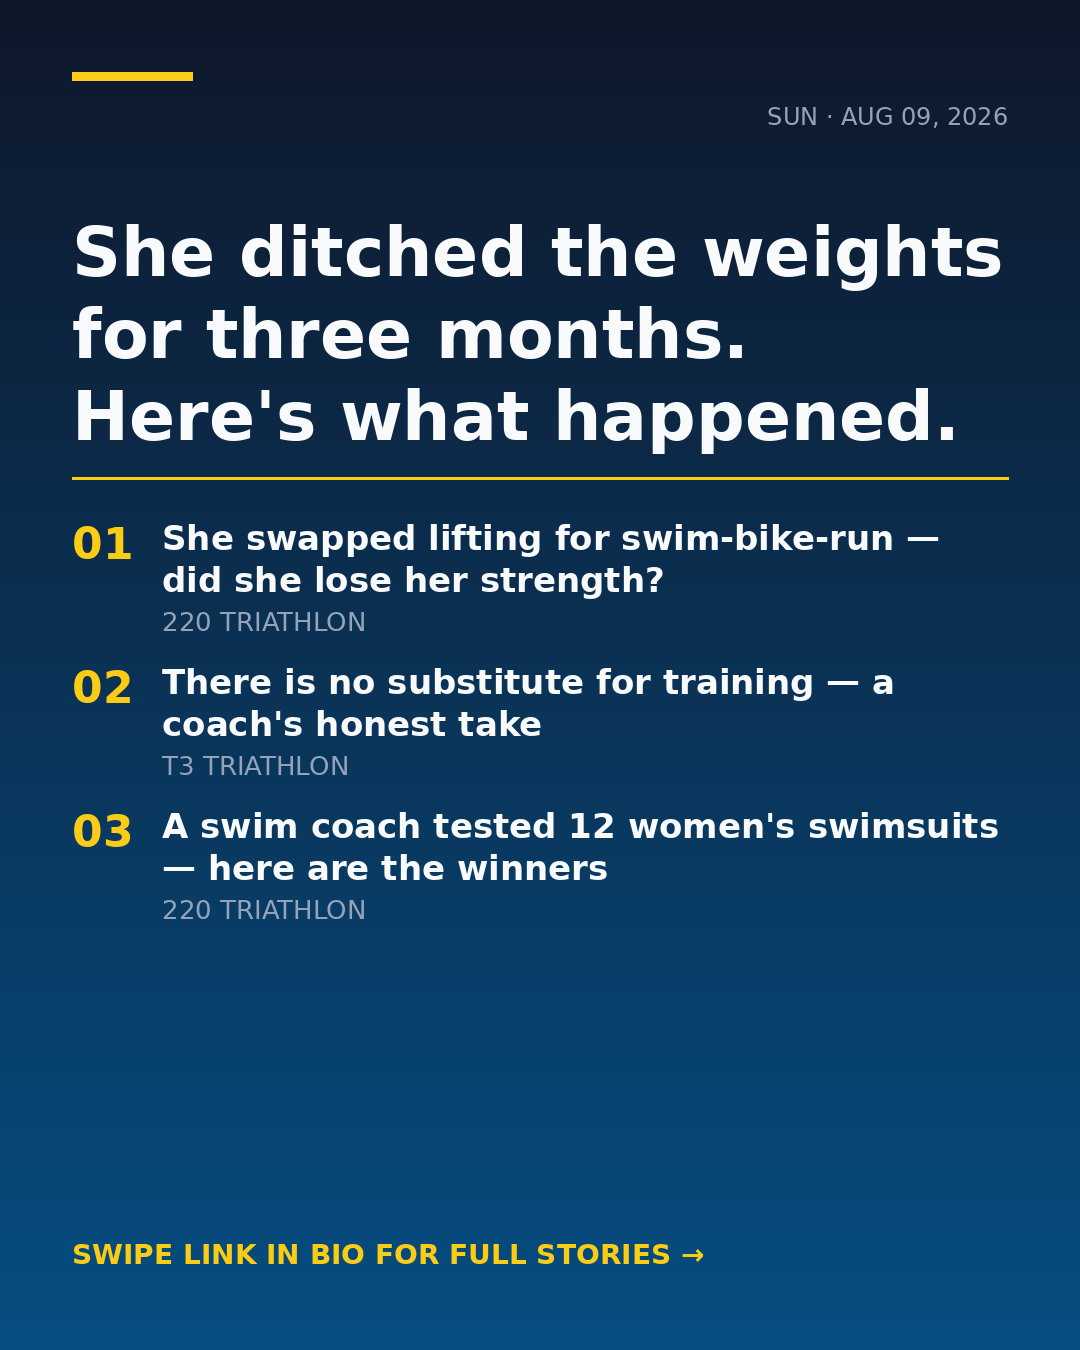
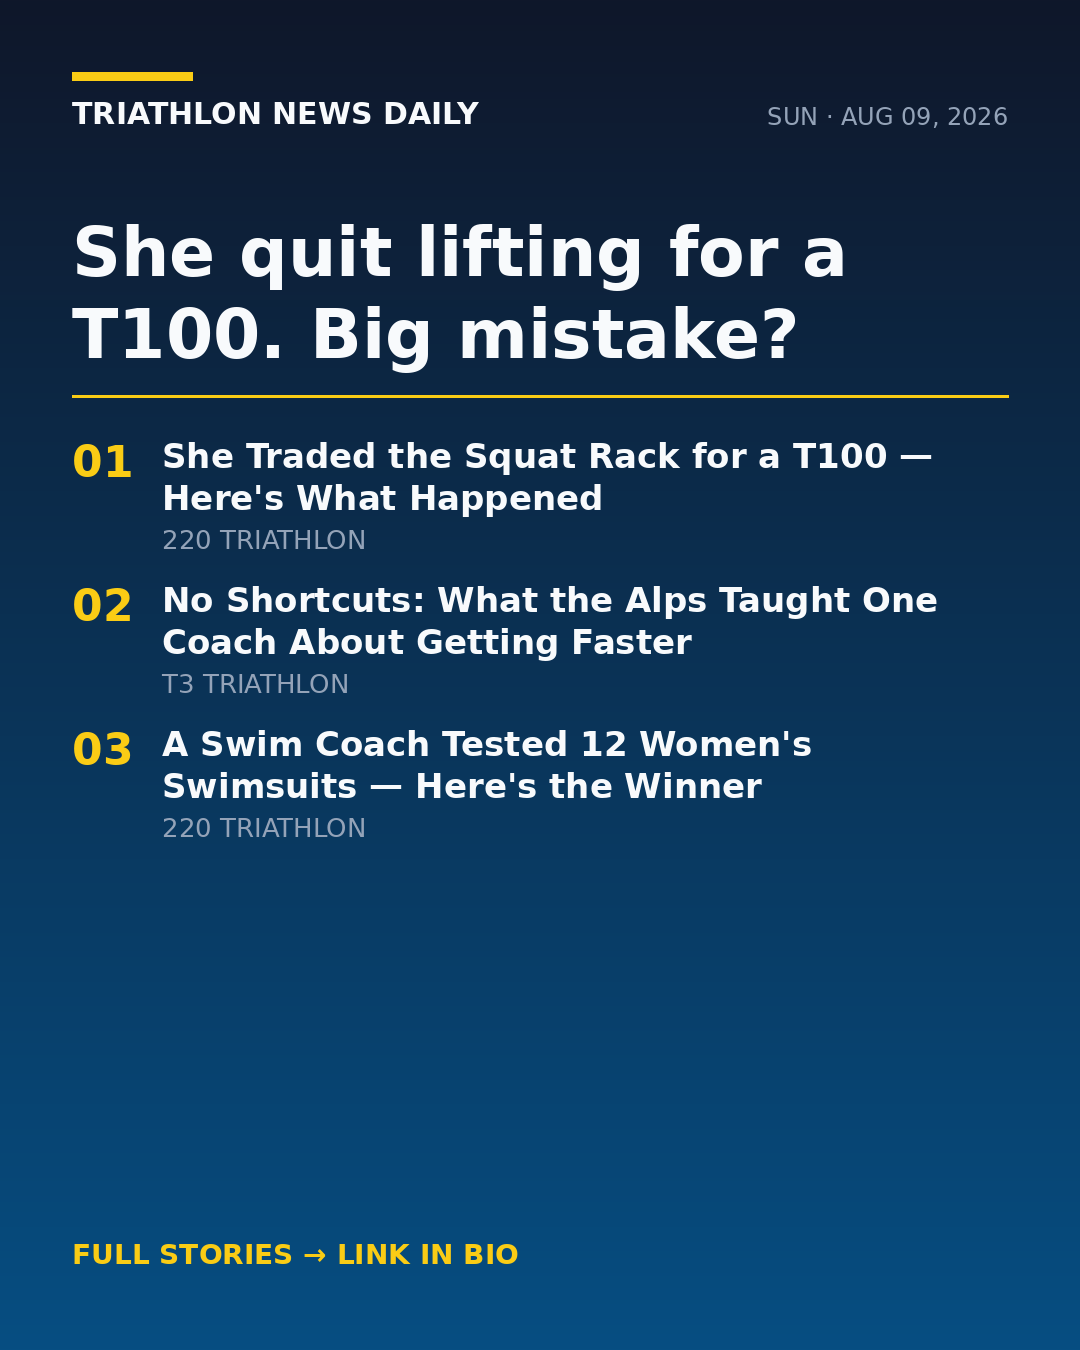
card: 2026-08-09

diff --git a/index.html b/index.html
@@ -3,7 +3,7 @@
 <head>
 <meta charset="utf-8">
 <meta name="viewport" content="width=device-width, initial-scale=1">
-<title> — Sunday, 09 August 2026</title>
+<title>Triathlon News Daily — Sunday, 09 August 2026</title>
 <style>
   :root { color-scheme: light dark; }
   body {
@@ -27,35 +27,57 @@
   }
   .ok { opacity: 0; transition: opacity .2s; font-size: .875rem; align-self: center; }
   .ok.show { opacity: .8; }
+  h2 { font-size: 1rem; text-transform: uppercase; letter-spacing: .06em;
+        opacity: .6; margin: 32px 0 12px; }
+  ol.stories { padding-left: 0; list-style: none; margin: 0; }
+  ol.stories li { padding: 14px 0; border-bottom: 1px solid rgba(128,128,128,.25); }
+  ol.stories a { color: inherit; font-weight: 600; text-decoration: none; }
+  ol.stories a:hover { text-decoration: underline; }
+  .src { display: block; font-size: .8rem; opacity: .55; margin-top: 4px;
+          text-transform: uppercase; letter-spacing: .04em; }
+  details { margin-top: 32px; }
+  summary { cursor: pointer; opacity: .7; }
 </style>
 </head>
 <body>
-<h1></h1>
+<h1>Triathlon News Daily</h1>
 <div class="meta">Sunday, 09 August 2026 · generated automatically</div>
 
 <img src="daily.png" alt="Today's card">
 
-<div class="bar">
-  <button id="copy">Copy caption</button>
-  <a class="btn" href="daily.png" download>Download image</a>
-  <span class="ok" id="ok">copied</span>
-</div>
+<h2>Today's stories</h2>
+<ol class="stories">
+  <li><a href="https://www.220triathlon.com/gear/run/run-clothing/best-running-jackets" target="_blank" rel="noopener">What are the best running jackets? Our team shares favourite waterproof, windproof, and thermal options</a><span class="src">220 Triathlon</span></li>
+  <li><a href="https://www.220triathlon.com/training/training-plans/free-olympic-distance-triathlon-training-plans" target="_blank" rel="noopener">Choose from our free Olympic-distance triathlon training plans and smash your next race</a><span class="src">220 Triathlon</span></li>
+  <li><a href="https://www.220triathlon.com/training/training-plans/training-plan-for-triathlon-beginners" target="_blank" rel="noopener">New to triathlon? Pick from our range of free training plans for beginner triathletes</a><span class="src">220 Triathlon</span></li>
+  <li><a href="https://www.220triathlon.com/gear/swim/swim-clothing/best-womens-swimsuits-reviewed" target="_blank" rel="noopener">I&amp;#8217;m an open-water swim coach – I tested 12 women&amp;#8217;s swimsuits to find the best</a><span class="src">220 Triathlon</span></li>
+  <li><a href="https://www.220triathlon.com/gear/run/best-running-sunglasses" target="_blank" rel="noopener">What are the best sunglasses for running? Here are our favourite 10 for clear vision and eye protection</a><span class="src">220 Triathlon</span></li>
+  <li><a href="https://www.220triathlon.com/training/training-plans/free-ironman-training-plans" target="_blank" rel="noopener">Start training for an Ironman in 2027 with these free Ironman training plans from 3 to 12 months</a><span class="src">220 Triathlon</span></li>
+</ol>
 
-<pre id="caption">She ditched the weights for three months. Here&#x27;s what happened.
+<details>
+  <summary>Caption (for posting)</summary>
+  <div class="bar">
+    <button id="copy">Copy caption</button>
+    <a class="btn" href="daily.png" download>Download image</a>
+    <span class="ok" id="ok">copied</span>
+  </div>
+  <pre id="caption">She quit lifting for a T100. Big mistake?
 
 Real talk from today&#x27;s feed 👇
 
-India Paine spent months chasing strength PBs, then dropped lifting to train for her first T100. Three months later she walked back into the gym — and the results are a wake-up call for every triathlete who thinks &quot;I&#x27;ll just do a bit of everything.&quot;
+One writer ditched the squat rack for swim-bike-run to prep for her first T100 — then walked back into the gym to see what she&#x27;d lost. The answer is more nuanced than you&#x27;d think, and every hybrid athlete needs to read it.
 
-Meanwhile a t3 coach is reminding us there&#x27;s no app, no supplement, no aero toy that replaces consistent training. Harsh, true, needed.
+Meanwhile, a t3 coach is reminding us there&#x27;s no app, no supplement, no aero helmet that replaces the years of honest work. The Alps don&#x27;t care about your Strava.
 
-Also worth a scroll: a swim coach&#x27;s honest review of 12 women&#x27;s swimsuits, free Ironman plans for 2027, and bone-building recipes because your skeleton is your suspension system 🦴
+Also worth a click: a swim coach&#x27;s deep-dive on 12 women&#x27;s swimsuits, free Ironman plans if you&#x27;re already eyeing 2027, and breakfast ideas that don&#x27;t taste like cardboard. 🍳
 
-Strength work or extra swim session — where does your off-season hour go?
+Would you drop strength training to chase a long-course PR?
 
-🔗 Full stories + today&#x27;s gear picks → link in bio ()
+🔗 Full stories → link in bio (@trinewsdaily)
 
-#triathlon #ironman #swimbikerun #triathlete #70point3 #t100triathlon #agegroupathlete #triathlontraining #strengthtraining #triathloncoach #openwaterswimming #triathlonlife #ironmantraining #triathlonwomen #enduranceathlete #triathlongear #trainingplan #triathlonnutrition #bonehealth #runningcommunity #cyclinglife #swimlife #offseasontraining #raceready #220triathlon</pre>
+#triathlon #ironman #swimbikerun #triathlontraining #70point3 #t100 #agegroupathlete #triathlete #triathlonlife #strengthtraining #hybridathlete #openwaterswimming #triathloncoach #enduranceathlete #runningcommunity #cyclinglife #ironmantraining #triathlonnutrition #womenintri #220triathlon</pre>
+</details>
 
 <script>
 document.getElementById('copy').addEventListener('click', async () => {
